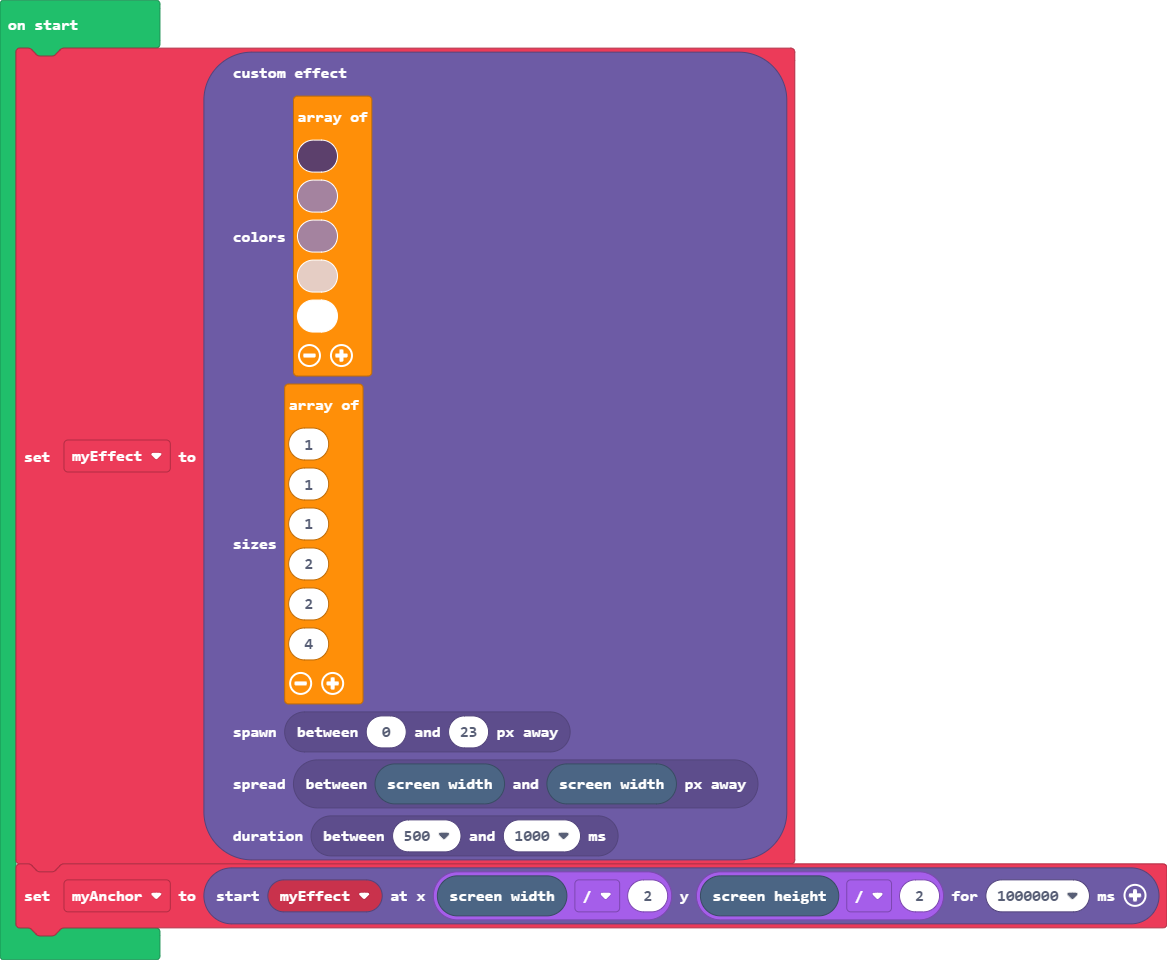
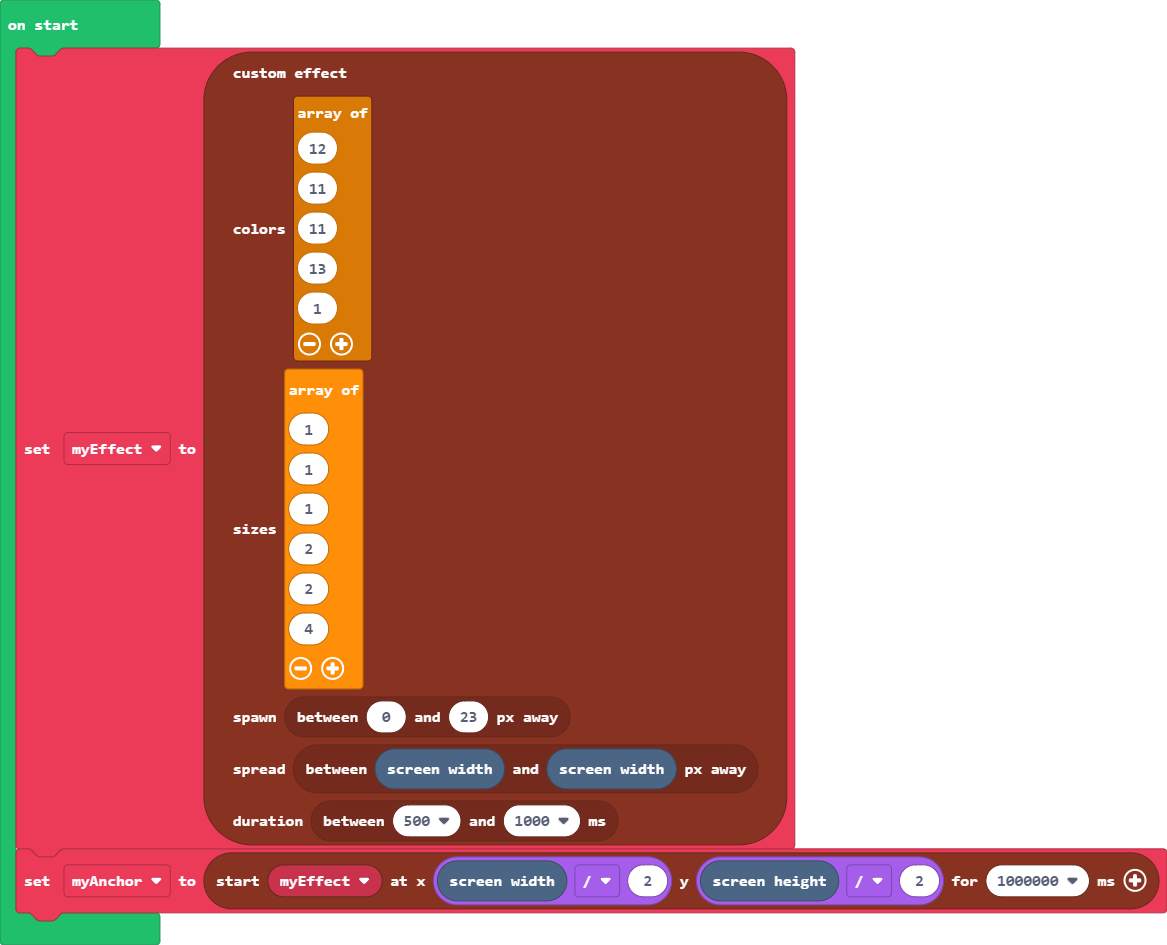
block colors and groups

diff --git a/effects.ts b/effects.ts
@@ -16,7 +16,8 @@ enum PresetShape {
 /**
  * Provides a few extra effects based on particles exploding out of a center point
  */
-//% groups="['Effects', 'Colors', 'Sizes']"
+//% color=0x883322 icon="\uf06d" advanced=true
+//% groups="['Create', 'Data']"
 namespace effects {
     export class NumberRange {
         constructor(
@@ -72,9 +73,10 @@ namespace effects {
     /**
      * Create preset table of sizes based on expected effect shape
      */
-    //% group="Sizes"
+    //% blockNamespace=arrays
+    //% group="Create" color=0xff9008
     //% blockId="presetSizeTablePicker"
-    //% block="shape of $shape"
+    //% block="sizes matching shape $shape"
     export function createPresetSizeTable(shape: PresetShape): number[] {
         return PRESET_SIZE_LUT[shape]
     }
@@ -82,9 +84,10 @@ namespace effects {
     /**
      * Create a set of numbers that shrinks
      */
-    //% group="Sizes"
+    //% blockNamespace=arrays
+    //% group="Create" color=0xff9008
     //% blockId="shrinkingTablePicker"
-    //% block="shrink from $max"
+    //% block="array of numbers shrinking from $max"
     //% max.min=1 max.max=100 max.defl=16
     export function createShrinkingSizes(max: number): number[] {
         const result = []
@@ -97,9 +100,10 @@ namespace effects {
     /**
      * Create a set of numbers that grows
      */
-    //% group="Sizes"
+    //% blockNamespace=arrays
+    //% group="Create" color=0xff9008
     //% blockId="growingTablePicker"
-    //% block="grow to $max"
+    //% block="array of numbers growing to $max"
     //% max.min=1 max.max=100 max.defl=16
     export function createGrowingSizes(max: number): number[] {
         const result = []
@@ -112,7 +116,7 @@ namespace effects {
     /**
      * Create custom effect data
      */
-    //% group="Effects"
+    //% group="Data"
     //% blockSetVariable=myEffect
     //% block="custom effect|colors $colorLUT sizes $sizeLUT spawn $spawn spread $spread duration $duration"
     //% colorLUT.shadow="lists_create_with" colorLUT.defl="colorindexpicker"
@@ -148,9 +152,10 @@ namespace effects {
     /**
      * Create preset color table
      */
-    //% group="Colors"
+    //% blockNamespace=arrays
+    //% group="Create" color=0xff9008
     //% blockId="presetColorTablePicker"
-    //% block="$color colored"
+    //% block="array of $color colors"
     export function createPresetColorTable(color: PresetColor): number[] {
         return PRESET_COLOR_LUT[color]
     }
@@ -158,23 +163,56 @@ namespace effects {
     /**
      * Create single color table
      */
-    //% group="Colors"
+    //% blockNamespace=arrays
+    //% group="Create" color=0xff9008
     //% blockId="singleColorTablePicker"
-    //% block="$color colored"
+    //% block="array of $color color"
     //% color.shadow="colorindexpicker" color.defl=1
     export function createSingleColorTable(color: number): number[] {
         return [color]
     }
 
     /**
-     * Create effect using preset settings
+     * Create effect using preset colors and shapes
      */
-    //% group="Effects"
+    //% group="Data"
     //% inlineInputMode=inline
-    //% blockId="createPresetEffectData"
-    //% block="effect $colorLUT $shape|| $size px wide"
-    //% colorLUT.shadow="presetColorTablePicker"
+    //% blockId="createPresetColorEffectData"
+    //% block="preset effect $color $shape|| $size px wide"
     //% size.min=20 size.max=100 size.defl=50
+    export function createPresetColorEffectData(
+        color: PresetColor,
+        shape: PresetShape,
+        size: number = 50,
+    ) {
+        return createPresetEffectData(
+            createPresetColorTable(color),
+            shape,
+            size,
+        )
+    }
+
+    /**
+     * Create effect using a single color and preset shapes
+     */
+    //% group="Data"
+    //% inlineInputMode=inline
+    //% blockId="createSingleColorEffectData"
+    //% block="preset effect $color $shape|| $size px wide"
+    //% color.shadow="colorindexpicker"
+    //% size.min=20 size.max=100 size.defl=50
+    export function createSingleColorEffectData(
+        color: number,
+        shape: PresetShape,
+        size: number = 50,
+    ) {
+        return createPresetEffectData(
+            createSingleColorTable(color),
+            shape,
+            size,
+        )
+    }
+
     export function createPresetEffectData(
         colorLUT: number[],
         shape: PresetShape,
@@ -219,8 +257,8 @@ namespace effects {
     /**
      * Start an explosive effect at a position on the stage
      */
-    //% group="Effects"
     //% inlineInputMode=inline
+    //% group="Create"
     //% blockId="createExplosiveEffectAtPosition"
     //% blockSetVariable=myAnchor
     //% block="start $effect at x $x y $y for $duration ms|| density $density"
@@ -256,8 +294,8 @@ namespace effects {
     /**
      * Start an explosive effect on a sprite
      */
-    //% group="Effects"
     //% inlineInputMode=inline
+    //% group="Create"
     //% blockId="createExplosiveEffectOnSprite"
     //% block="$sprite start $effect for $duration ms|| density $density"
     //% sprite.shadow=variables_get sprite.defl=mySprite
